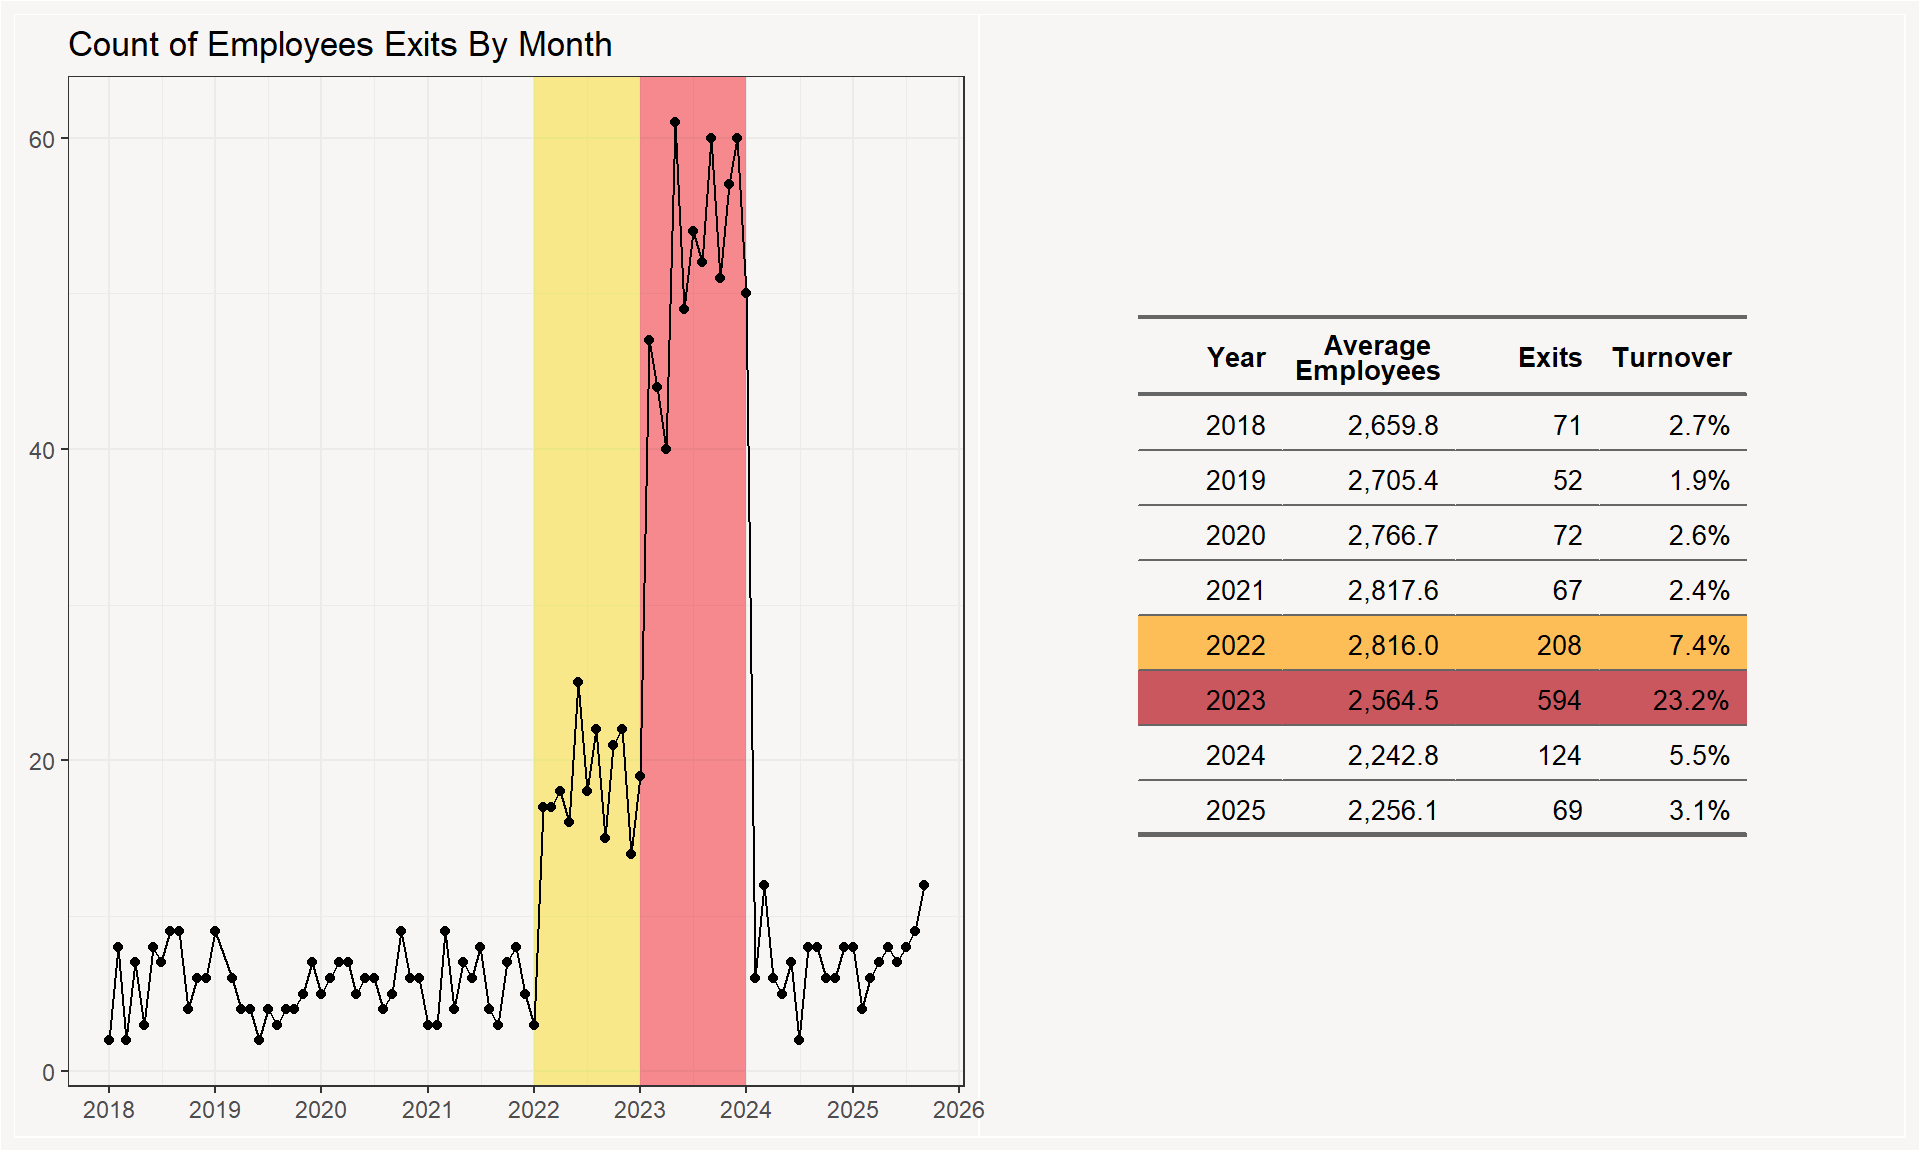
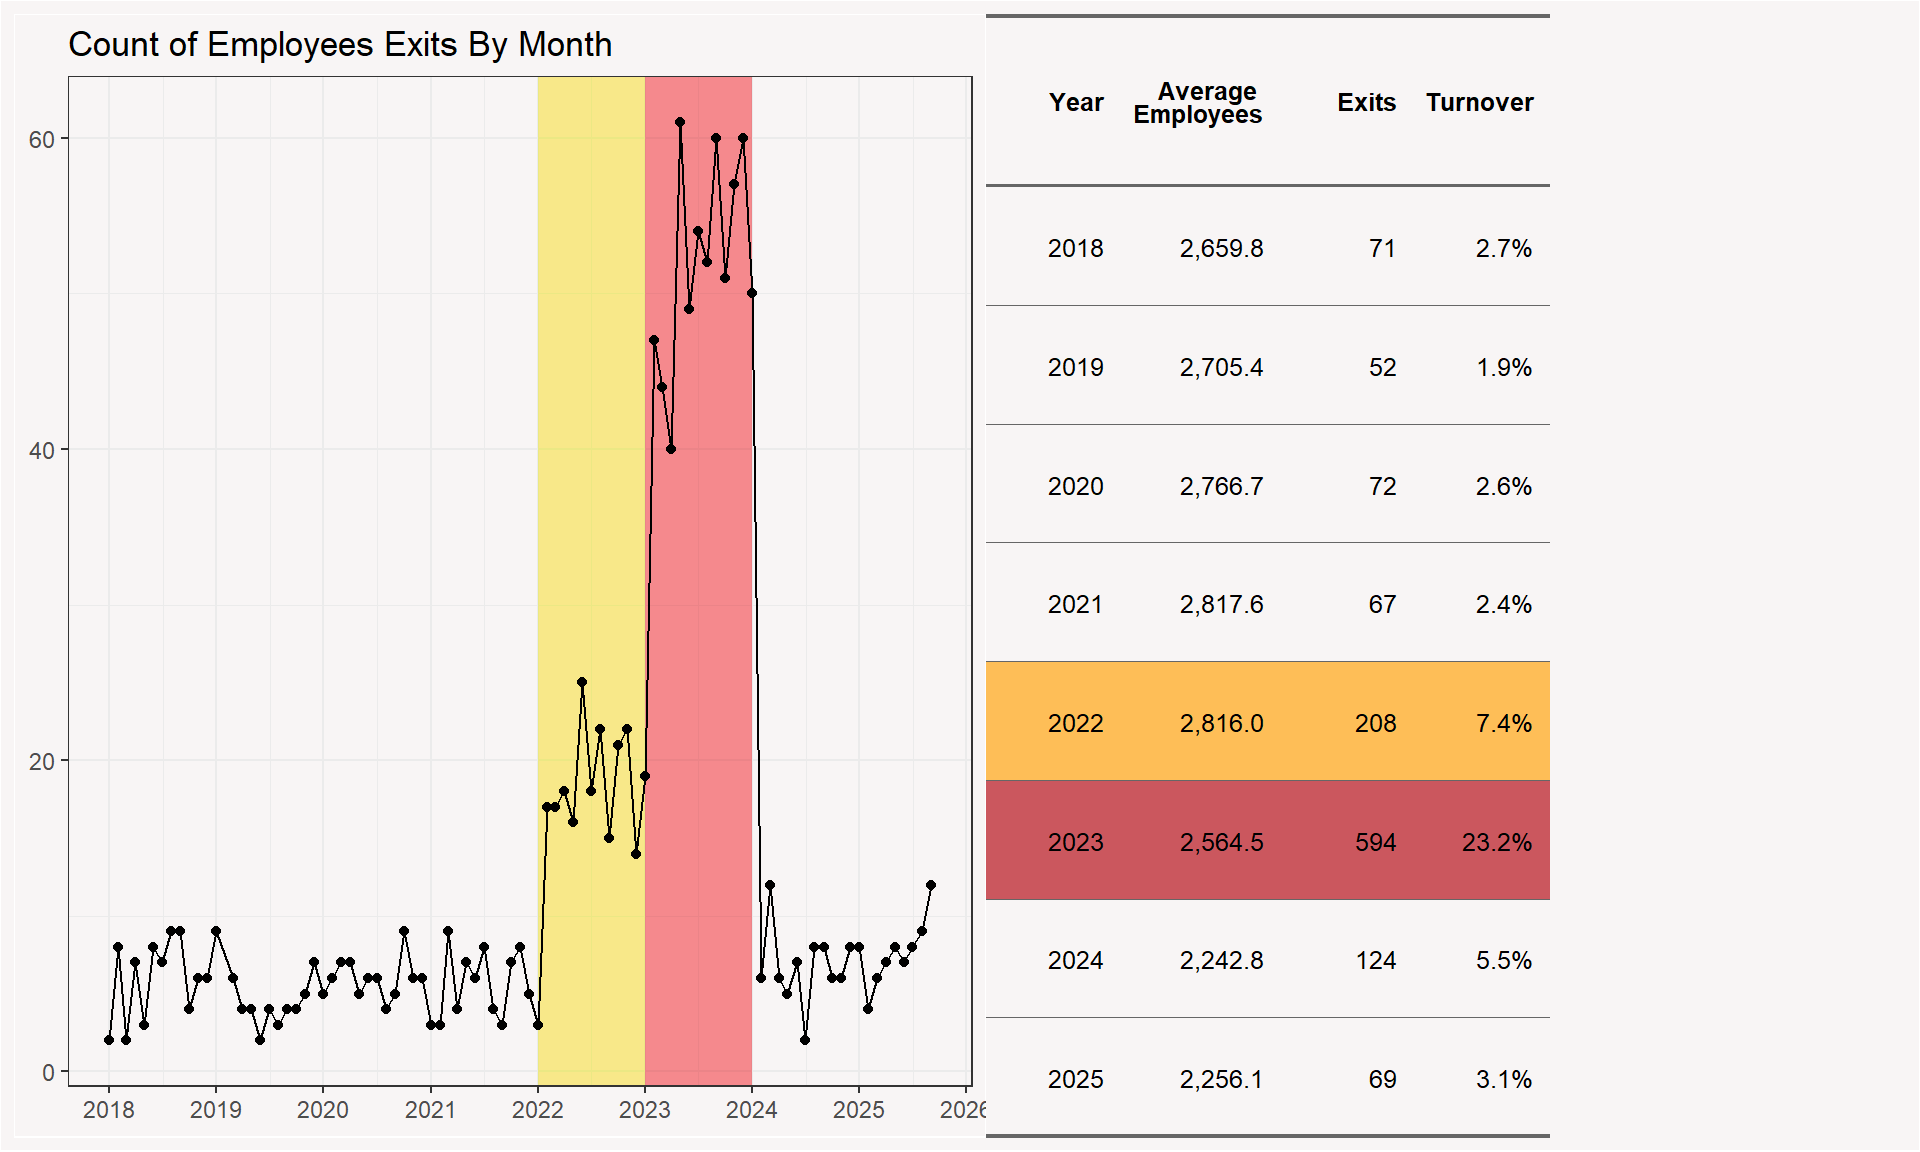
updated table

diff --git a/_site/turnover.html b/_site/turnover.html
@@ -212,7 +212,7 @@ pre > code.sourceCode > span > a:first-child::before { text-decoration: underlin
 <div class="cell-output-display">
 <div class="quarto-figure quarto-figure-center">
 <figure class="figure">
-<p><img src="turnover_files/figure-html/exit-trend-1.png" class="quarto-figure quarto-figure-center figure-img" style="width:100.0%;height:40.0%"></p>
+<p><img src="turnover_files/figure-html/exit-trend-1.png" class="quarto-figure quarto-figure-center figure-img" style="width:100.0%;height:30.0%"></p>
 </figure>
 </div>
 </div>
